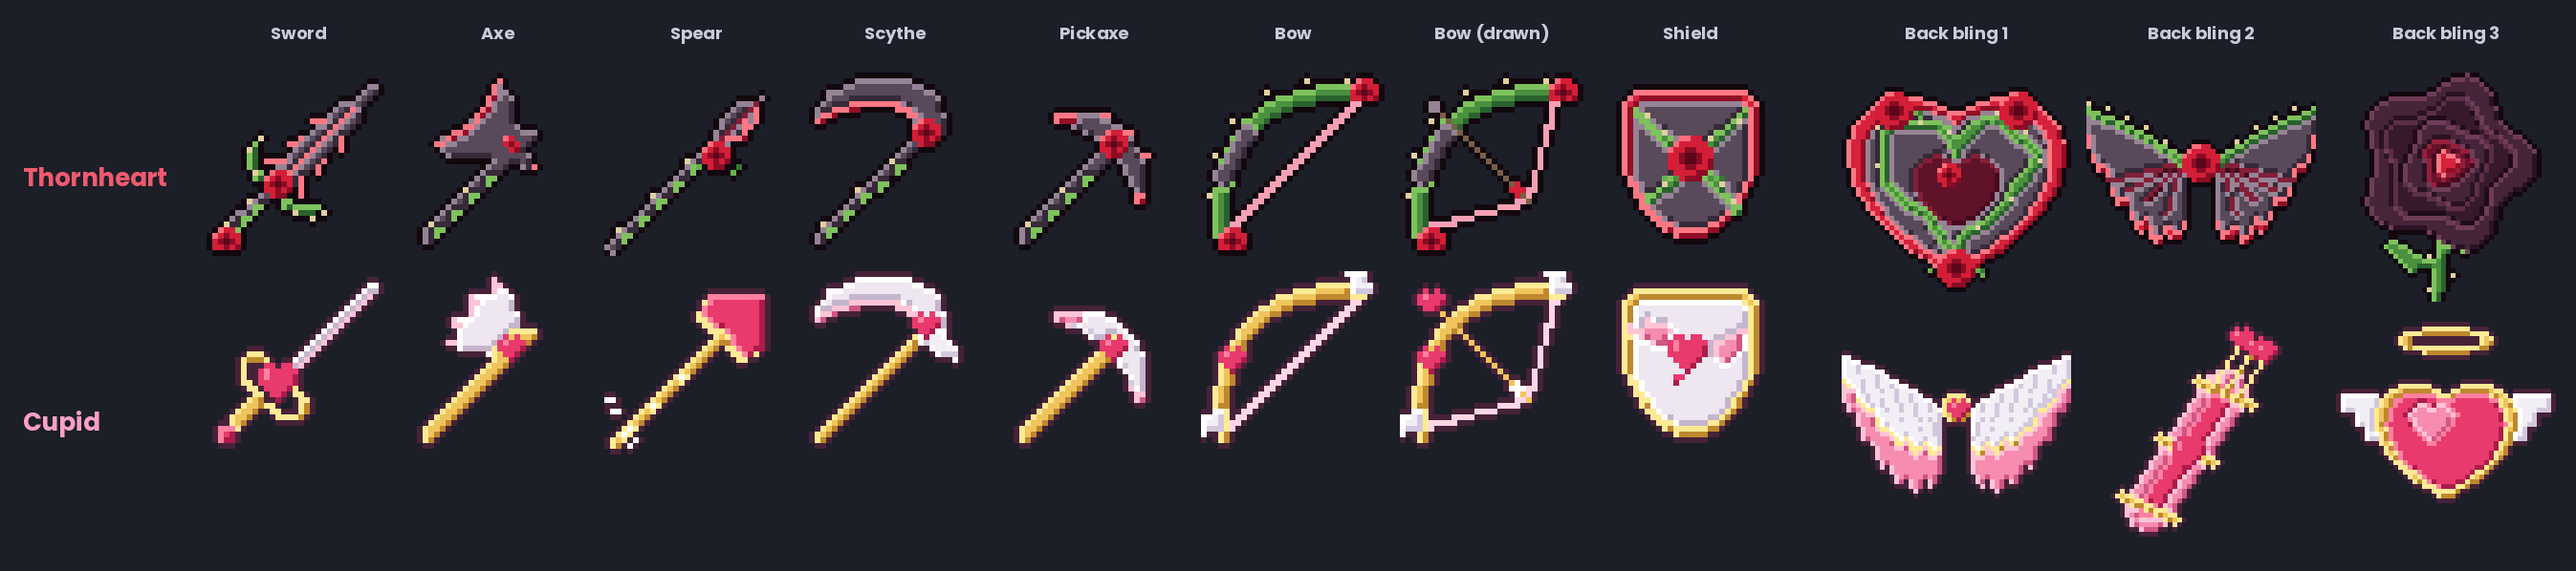
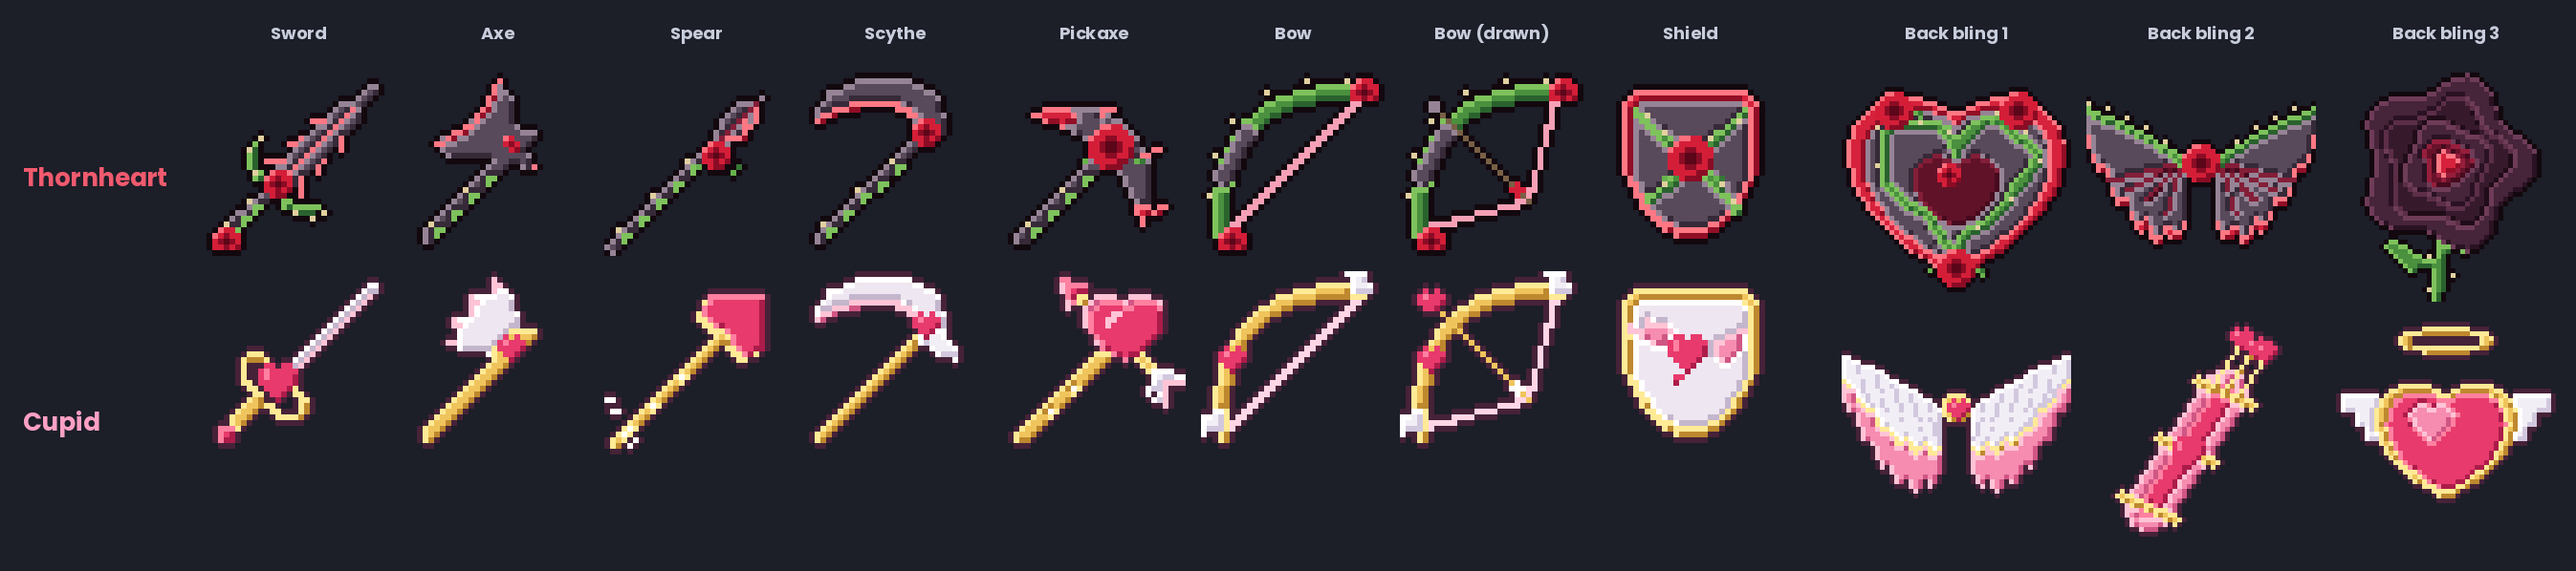
Concepts: bigger, redesigned Valentines pickaxes
Claude-Session: https://claude.ai/code/session_01UtexKntMTy5LWKErqeLgdQ

Changed region(s): [[0.4053, 0.4816, 0.4677, 0.7224], [0.3742, 0.1505, 0.4677, 0.3913], [0.3742, 0.7525, 0.4053, 0.7826]]

diff --git a/resource-pack/concepts/weapons/cupid.py b/resource-pack/concepts/weapons/cupid.py
@@ -223,15 +223,31 @@ def backbling_heart():
 
 
 def pickaxe():
-    """Pearl pick shaped like a pair of spread wings, pink feather points, gold haft, heart centre."""
+    """Cupid's arrow through a heart: the head is a gold arrow piercing a big pink heart. The sharp
+    pink arrowhead is the pick; white feather fletching on the other end."""
     s = base()
-    s.line((4, 28.5), (19.5, 13), 1.2, 'gold')
+    s.line((3.5, 29), (18.5, 14), 1.2, 'gold')
+    for t in (0.3, 0.6):
+        x, y = 3.5 + 15 * t, 29 - 15 * t
+        s.put(int(x), int(y), 'pearl')
     H = (19, 13)
-    parts.pick_head(s, H, 'pearl', thick=2.1, tip_mat='pink', tip_len=3)
-    for o in (-7, -4, 4, 7):                                     # feather notches along the underside
-        a = 1.5 - 0.045 * o * o
-        p = parts.local(H, [(a - 1.6, o)])[0]
-        s.color(int(p[0]), int(p[1]), FEATHER[2])
-    s.disc((19, 13), 2.0, 'gold')
-    s.stamp(17, 11, HEART5, HKEY)
+    a0 = 2.0
+    p, q = parts.local(H, [(a0, -11), (a0, 10)])
+    s.line(p, q, .9, 'gold')                                     # arrow shaft across the top
+    s.poly(parts.local(H, [(a0 - 3.2, 9), (a0, 15.5), (a0 + 3.2, 9), (a0, 10.5)]), 'heart')   # arrowhead
+    s.path(parts.local(H, [(a0 - 2.6, 9.6), (a0, 14.8)]), .4, 'pink')
+    for k in range(3):                                           # fletching
+        o = -8.5 - k * 1.6
+        for side in (-1, 1):
+            p1, q1 = parts.local(H, [(a0, o), (a0 + side * 3.0, o - 2.2)])
+            s.line(p1, q1, .6, 'feather' if k < 2 else 'pink')
+    # big heart pierced by the arrow
+    def heart(x, y):
+        X, Y = x + .5, y + .5
+        c = parts.local(H, [(a0 + 1.2, 0)])[0]
+        u = (X - c[0]) / 6.2; v = -(Y - c[1] + .8) / 6.2 * 1.15 + .15
+        return (u * u + v * v - 1) ** 3 - u * u * v ** 3 <= 0
+    s.where(heart, 'heart')
+    s.where(lambda x, y: heart(x, y) and not heart(x - 1, y - 1), 'pink')
+    s.stamp(int(parts.local(H, [(a0 + 1.2, 0)])[0][0]) - 3, int(parts.local(H, [(a0 + 1.2, 0)])[0][1]) - 3, ['.LL.', 'LL..', 'L...'], {'L': PINK[0]})
     return s

diff --git a/resource-pack/concepts/weapons/thornheart.py b/resource-pack/concepts/weapons/thornheart.py
@@ -233,16 +233,27 @@ def backbling_rose():
 
 
 def pickaxe():
-    """Black-steel pick with crimson points, thorn spikes on top and a rose where it meets the haft."""
+    """Big black-steel pick: one end a long crimson spike, the other a forked thorn; thorns along the
+    top and a big rose where it meets the vine-wrapped haft."""
     s = base()
-    s.line((4, 28.5), (19.5, 13), 1.2, 'steel')
-    vine_wrap(s, (5, 27), (16, 16), 3)
+    s.line((3.5, 29), (18.5, 14), 1.3, 'steel')
+    vine_wrap(s, (5, 27), (15, 17), 3)
     H = (19, 13)
-    parts.pick_head(s, H, 'steel', tip_mat='edge')
-    for o in (-5, 0, 5):                                         # thorn spikes on the top of the head
-        a = 1.5 - 0.045 * o * o
-        p = parts.local(H, [(a + 2.2, o)])[0]
-        q = parts.local(H, [(a + 3.6, o - .6)])[0]
-        s.line(p, q, .45, 'edge')
-    s.stamp(17, 10, ROSE5, RKEY)
+    parts.pick_head(s, H, 'steel', half=13.5, thick=2.7, bow=0.04, tip_mat='edge', tip_len=4.5)
+    fork = parts.local(H, [(1.5 - 0.04 * 144, -12), (1.5 - 0.04 * 144 + 3.2, -14.2)])
+    s.line(fork[0], fork[1], .6, 'edge')                       # second prong of the forked end
+    for o in (-5, 5.5):                                         # thorn spikes on the top
+        a2 = 1.5 - 0.04 * o * o
+        p, q = parts.local(H, [(a2 + 2.6, o), (a2 + 4.8, o - 1.1)])
+        s.line(p, q, .55, 'edge')
+    big = ["..LLRR..",
+           ".LRRRRR.",
+           "LRRddRRR",
+           "RRdKKdRR",
+           "RRdKKdRD",
+           "RRRddRRD",
+           ".RRRRDD.",
+           "..RDDD.."]
+    s.stamp(15, 9, big, RKEY)
+    s.color(14, 15, LEAF); s.color(23, 15, LEAF); s.color(24, 15, LEAFD)
     return s
